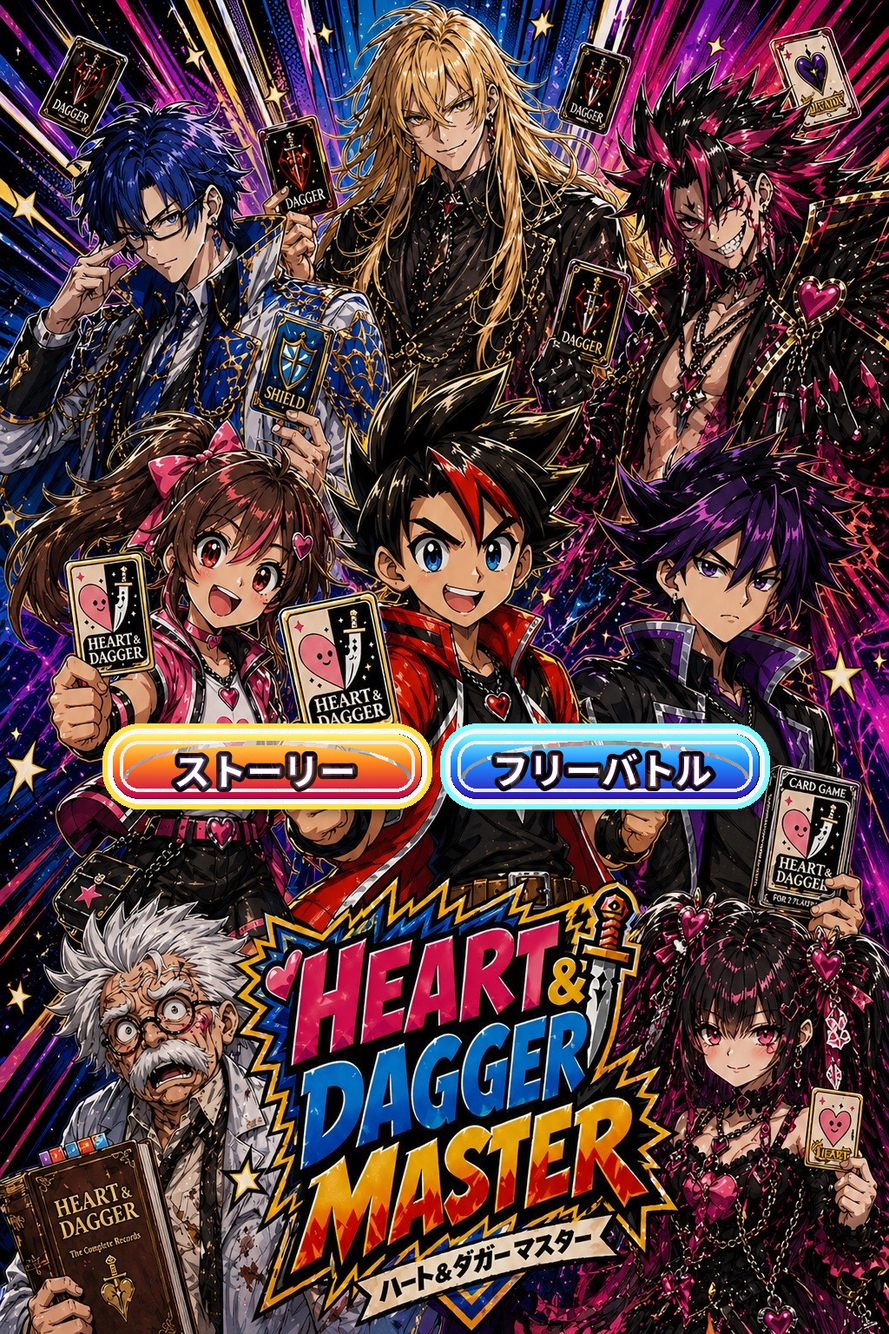
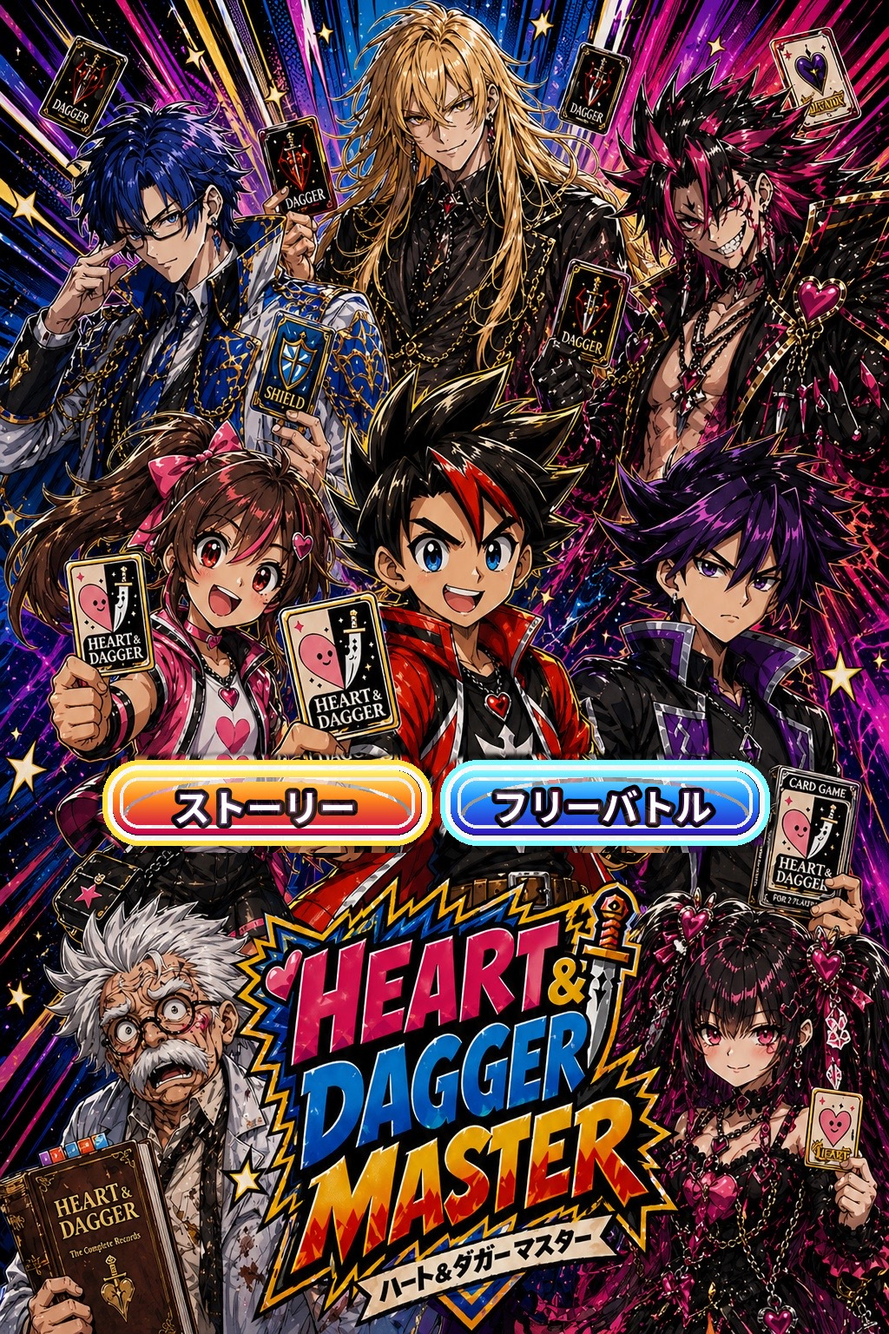
Add files via upload

Changed region(s): [[0.0938, 0.5312, 0.875, 0.6562]]

diff --git a/index.html b/index.html
@@ -15,8 +15,8 @@ html,body{margin:0;width:100%;height:100%;background:#000;font-family:system-ui,
 .title-stage img{width:100%;height:100%;display:block;object-fit:contain;user-select:none;-webkit-user-drag:none;}
 .hotspot{position:absolute;border:0;background:transparent;cursor:pointer;padding:0;}
 .hotspot:focus-visible{outline:3px solid rgba(255,255,255,.9);border-radius:18px;}
-.hotspot.story{left:12.5%;top:54.6%;width:36.7%;height:6.2%;}
-.hotspot.free{left:50.3%;top:54.6%;width:36.7%;height:6.2%;}
+.hotspot.story{left:12.5%;top:57.35%;width:36.7%;height:6.2%;}
+.hotspot.free{left:50.3%;top:57.35%;width:36.7%;height:6.2%;}
 @media (orientation: landscape){
   :root{--stage-w:min(100vw,1024px);}
   .title-scroll{align-items:flex-start;}
@@ -42,7 +42,7 @@ html,body{margin:0;width:100%;height:100%;background:#000;font-family:system-ui,
 <main id="titleScreen" class="screen active">
   <div class="title-scroll" aria-label="タイトル画面">
     <div class="title-stage">
-      <img src="./title-buttons-baked.jpg?v=20260502" alt="HEART & DAGGER MASTER タイトル">
+      <img src="./title-buttons-baked.jpg?v=20260502-lower" alt="HEART & DAGGER MASTER タイトル">
       <button class="hotspot story" aria-label="ストーリー" onclick="goStory()"></button>
       <button class="hotspot free" aria-label="フリーバトル" onclick="goBattle()"></button>
     </div>
